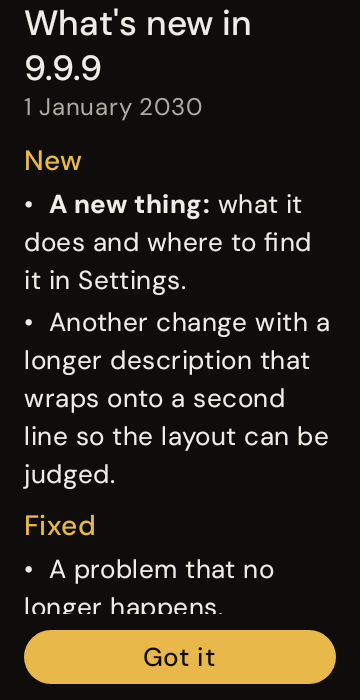
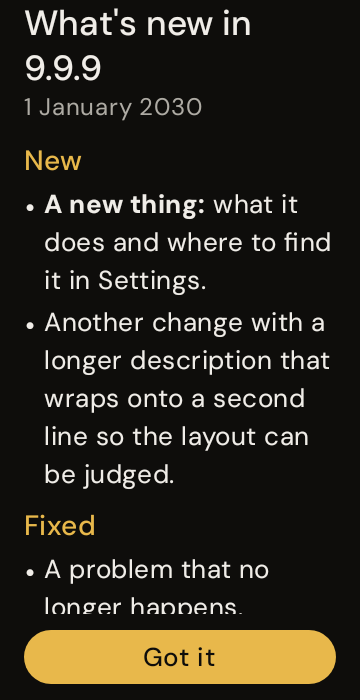
R28 review fixes: save the version from a scope that outlives the sheet, ignore older builds, hanging bullets, no widget step on iOS
Claude-Session: https://claude.ai/code/session_012y7soafHxywyzp4CSwQggB

diff --git a/shared/src/commonMain/kotlin/com/chapterplayer/domain/whatsnew/WhatsNew.kt b/shared/src/commonMain/kotlin/com/chapterplayer/domain/whatsnew/WhatsNew.kt
@@ -34,7 +34,8 @@ fun parseChangelog(text: String): List<ReleaseNotes> {
             date = if (open >= 0 && head.endsWith(")")) head.substring(open + 1, head.length - 1).trim() else null
         } else if (version != null && line.isNotEmpty()) {
             lines += when {
-                line.startsWith("- ") -> NoteLine.Bullet(line.removePrefix("- ").trim())
+                line.startsWith("- ") || line.startsWith("* ") -> NoteLine.Bullet(line.drop(2).trim())
+                line.startsWith("#") && line.trimStart('#').startsWith(" ") -> NoteLine.Heading(line.trimStart('#').trim())
                 line.length > 4 && line.startsWith("**") && line.endsWith("**") && !line.drop(2).dropLast(2).contains("**") ->
                     NoteLine.Heading(line.drop(2).dropLast(2))
                 else -> NoteLine.Plain(line)
@@ -67,14 +68,27 @@ fun splitBold(text: String): List<TextRun> {
 /** The release part of a version name: "0.5.4-debug.12" is "0.5.4", so a debug build does not count as a new version. */
 fun releaseVersion(versionName: String): String = versionName.substringBefore('-').trim()
 
+/** Whether release version [a] is newer than [b] ("0.10.0" is newer than "0.9.2"); a part that is not a number counts as 0. */
+fun isNewerVersion(a: String, b: String): Boolean {
+    val x = a.split('.').map { it.toIntOrNull() ?: 0 }
+    val y = b.split('.').map { it.toIntOrNull() ?: 0 }
+    for (i in 0 until maxOf(x.size, y.size)) {
+        val p = x.getOrElse(i) { 0 }
+        val q = y.getOrElse(i) { 0 }
+        if (p != q) return p > q
+    }
+    return false
+}
+
 /**
  * The notes to show once, or null for none. [lastSeen] is the release version the person last saw notes for (null on a
  * first launch since this feature, or a fresh install). A fresh install ([hasServers] false) is not an update, so it
  * sees the first-run guidance instead; an app that already has servers sees the notes of the version it just got.
- * Nothing is shown when the changelog has no section for [current].
+ * Nothing is shown when the changelog has no section for [current], or when [current] is not newer than [lastSeen]
+ * (an older build installed again is not an update).
  */
 fun notesToShow(lastSeen: String?, current: String, hasServers: Boolean, notes: List<ReleaseNotes>): ReleaseNotes? {
-    if (lastSeen == current) return null
+    if (lastSeen != null && !isNewerVersion(current, lastSeen)) return null
     if (lastSeen == null && !hasServers) return null
     return notes.firstOrNull { it.version == current }
 }

diff --git a/shared/src/commonMain/kotlin/com/chapterplayer/ui/settings/WhatsNewPrompt.kt b/shared/src/commonMain/kotlin/com/chapterplayer/ui/settings/WhatsNewPrompt.kt
@@ -2,6 +2,7 @@ package com.chapterplayer.ui.settings
 
 import androidx.compose.foundation.layout.Arrangement
 import androidx.compose.foundation.layout.Column
+import androidx.compose.foundation.layout.Row
 import androidx.compose.foundation.layout.Spacer
 import androidx.compose.foundation.layout.fillMaxWidth
 import androidx.compose.foundation.layout.height
@@ -22,6 +23,7 @@ import androidx.compose.runtime.remember
 import androidx.compose.runtime.rememberCoroutineScope
 import androidx.compose.runtime.setValue
 import androidx.compose.ui.Modifier
+import androidx.compose.ui.semantics.clearAndSetSemantics
 import androidx.compose.ui.semantics.heading
 import androidx.compose.ui.semantics.semantics
 import androidx.compose.ui.text.AnnotatedString
@@ -74,8 +76,8 @@ fun WhatsNewPrompt(
             // No notes is better than a failed start: the sheet simply does not appear.
         }
     }
-    val shown = notes ?: return
     val scope = rememberCoroutineScope()
+    val shown = notes ?: return
     val close = {
         notes = null
         scope.launch {
@@ -110,7 +112,11 @@ internal fun WhatsNewContent(notes: ReleaseNotes, onClose: () -> Unit) {
                         color = AmberGold,
                         modifier = Modifier.padding(top = 8.dp).semantics { heading() }
                     )
-                    is NoteLine.Bullet -> Text(boldText("•  " + line.text), style = MaterialTheme.typography.bodyMedium, color = MaterialTheme.colorScheme.onSurface)
+                    is NoteLine.Bullet -> Row(horizontalArrangement = Arrangement.spacedBy(8.dp)) {
+                        // The dot is drawn on its own and hidden from TalkBack; wrapped lines hang under the text.
+                        Text("•", color = MaterialTheme.colorScheme.onSurface, modifier = Modifier.clearAndSetSemantics { })
+                        Text(boldText(line.text), style = MaterialTheme.typography.bodyMedium, color = MaterialTheme.colorScheme.onSurface)
+                    }
                     is NoteLine.Plain -> Text(boldText(line.text), style = MaterialTheme.typography.bodyMedium, color = MaterialTheme.colorScheme.onSurface)
                 }
             }

diff --git a/shared/src/commonMain/kotlin/com/chapterplayer/data/PlatformFeatures.kt b/shared/src/commonMain/kotlin/com/chapterplayer/data/PlatformFeatures.kt
@@ -12,20 +12,22 @@ data class PlatformFeatures(
     val car: Boolean = true,
     /** The download location choice in Settings (internal storage or an SD card); iOS has one place. */
     val downloadLocation: Boolean = true,
+    /** Home screen widgets (Android only). */
+    val widgets: Boolean = true,
 ) {
     companion object {
         val Full = PlatformFeatures()
 
         /** No player, downloads or car: what a screen assumes when nobody said (fails closed). */
-        val None = PlatformFeatures(playback = false, downloads = false, car = false, downloadLocation = false)
+        val None = PlatformFeatures(playback = false, downloads = false, car = false, downloadLocation = false, widgets = false)
 
         /** The iPhone build of Stage 5 step 2: browsing and sync only (kept for tests of a build without a player). */
-        val IosBrowsingOnly = PlatformFeatures(playback = false, downloads = false, car = false, downloadLocation = false)
+        val IosBrowsingOnly = PlatformFeatures(playback = false, downloads = false, car = false, downloadLocation = false, widgets = false)
 
         /** The iPhone build of Stage 5 step 4: browsing, sync and streaming playback; no downloads, no car (kept for tests). */
-        val IosStreaming = PlatformFeatures(playback = true, downloads = false, car = false, downloadLocation = false)
+        val IosStreaming = PlatformFeatures(playback = true, downloads = false, car = false, downloadLocation = false, widgets = false)
 
         /** The iPhone build from Stage 5 step 5: streaming and downloads with offline playback; no car, one download place. */
-        val IosFull = PlatformFeatures(playback = true, downloads = true, car = false, downloadLocation = false)
+        val IosFull = PlatformFeatures(playback = true, downloads = true, car = false, downloadLocation = false, widgets = false)
     }
 }

diff --git a/shared/src/commonMain/kotlin/com/chapterplayer/ui/home/HomeScreen.kt b/shared/src/commonMain/kotlin/com/chapterplayer/ui/home/HomeScreen.kt
@@ -67,6 +67,7 @@ import com.chapterplayer.domain.browse.isFavourite
 import com.chapterplayer.ui.details.BookActionsHost
 import com.chapterplayer.ui.details.rememberBookActions
 import com.chapterplayer.ui.library.LibraryView
+import com.chapterplayer.ui.components.LocalPlatformFeatures
 import com.chapterplayer.ui.components.DimmedCoverOverlay
 import com.chapterplayer.ui.library.CoverArt
 import com.chapterplayer.ui.theme.SurfaceElevated
@@ -133,6 +134,7 @@ fun HomeScreen(
             onResume = { viewModel.resume(it, openPlayerAfterStart) },
             onBookLongClick = bookActions::open,
             onFiltersCleared = viewModel::onFiltersCleared,
+            showWidgetStep = LocalPlatformFeatures.current.widgets,
         )
     }
         SnackbarHost(snackbar, modifier = Modifier.align(Alignment.BottomCenter))
@@ -160,6 +162,8 @@ internal fun HomeBody(
     onResume: (AudioBook) -> Unit,
     onBookLongClick: (String) -> Unit,
     onFiltersCleared: () -> Unit,
+    /** The first-run guide's widget step: Android only. */
+    showWidgetStep: Boolean = true,
 ) {
     val nothingToShow = state.resume == null && state.continueSeries.isEmpty() &&
         state.inProgress.isEmpty() && state.recentlyAdded.isEmpty() && state.favourites.isEmpty() && state.upNext.isEmpty()
@@ -168,7 +172,7 @@ internal fun HomeBody(
             CircularProgressIndicator(color = AmberGold)
         }
 
-        !state.hasServers -> ScrollingEmpty { FirstRunGuide(onOpenServers) }
+        !state.hasServers -> ScrollingEmpty { FirstRunGuide(onOpenServers, showWidgetStep) }
 
         nothingToShow -> ScrollingEmpty {
             if (state.hasBooks) {

diff --git a/shared/src/commonMain/kotlin/com/chapterplayer/ui/home/FirstRunGuide.kt b/shared/src/commonMain/kotlin/com/chapterplayer/ui/home/FirstRunGuide.kt
@@ -34,7 +34,8 @@ internal val FIRST_RUN_STEPS = listOf(
 
 /** What Home shows before any server exists: a welcome, the steps, and the button that starts the first one. */
 @Composable
-internal fun FirstRunGuide(onOpenServers: () -> Unit) {
+internal fun FirstRunGuide(onOpenServers: () -> Unit, showWidgetStep: Boolean = true) {
+    val steps = if (showWidgetStep) FIRST_RUN_STEPS else FIRST_RUN_STEPS.dropLast(1)
     Column(
         modifier = Modifier.widthIn(max = 480.dp).fillMaxWidth().padding(horizontal = 32.dp, vertical = 32.dp),
         horizontalAlignment = Alignment.CenterHorizontally,
@@ -48,7 +49,7 @@ internal fun FirstRunGuide(onOpenServers: () -> Unit) {
         )
         Spacer(Modifier.height(16.dp))
         Column(verticalArrangement = Arrangement.spacedBy(12.dp)) {
-            FIRST_RUN_STEPS.forEachIndexed { index, (title, detail) ->
+            steps.forEachIndexed { index, (title, detail) ->
                 Row(horizontalArrangement = Arrangement.spacedBy(12.dp)) {
                     Text("${index + 1}", style = MaterialTheme.typography.titleMedium, color = AmberGold)
                     Column {

diff --git a/shared/src/androidHostTest/kotlin/com/chapterplayer/domain/whatsnew/WhatsNewTest.kt b/shared/src/androidHostTest/kotlin/com/chapterplayer/domain/whatsnew/WhatsNewTest.kt
@@ -81,4 +81,21 @@ class WhatsNewTest {
     @Test fun `a version the changelog does not know shows nothing`() {
         assertNull(notesToShow(lastSeen = "0.5.4", current = "0.6.0", hasServers = true, notes = parseChangelog(changelog)))
     }
+
+    @Test fun `an older build installed again is not an update`() {
+        val notes = parseChangelog(changelog)
+        assertNull(notesToShow(lastSeen = "0.5.5", current = "0.5.4", hasServers = true, notes = notes))
+    }
+
+    @Test fun `versions compare by number not by text`() {
+        assertEquals(true, isNewerVersion("0.10.0", "0.9.2"))
+        assertEquals(false, isNewerVersion("0.5.4", "0.5.4"))
+        assertEquals(true, isNewerVersion("1.0", "0.9.9"))
+        assertEquals(false, isNewerVersion("0.5", "0.5.0"))
+    }
+
+    @Test fun `star bullets and hash headings read like dash bullets and bold headings`() {
+        val lines = parseChangelog("## 1.0.0\n### New\n* one\n- two").single().lines
+        assertEquals(listOf(NoteLine.Heading("New"), NoteLine.Bullet("one"), NoteLine.Bullet("two")), lines)
+    }
 }
